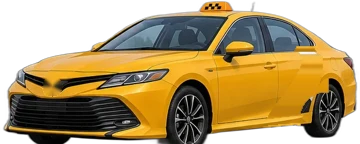
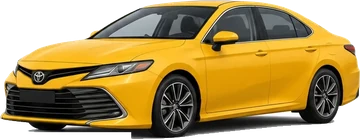
Новые рисунки машин в гараже, Kia K5 вместо Optima, окно подтверждения выбора машины
Claude-Session: https://claude.ai/code/session_01Vr2nsw1FRChDSUowvib2pM

diff --git a/index.html b/index.html
@@ -298,7 +298,8 @@ body{font-family:Inter,-apple-system,"Segoe UI",Roboto,sans-serif;-webkit-font-s
 
 #garage .gcard{padding-top:50px}#garage .mhead{top:12px;right:12px}
 #garage .gnote{margin:0 2px 8px}#garage .clsrow{margin:0}
-.ginfo em{margin-top:1px}.gcar{padding:3px 10px 3px 6px}.gcar .carimg{width:96px}.gtar{margin:8px 2px 0}
+.ginfo em{margin-top:1px}
+.askicon.askcar{width:auto;height:auto;border-radius:0;background:none;margin:-4px auto 10px}.askcar .carimg{width:200px;margin:0 auto}.gcar{padding:3px 10px 3px 6px}.gcar .carimg{width:96px}.gtar{margin:8px 2px 0}
 </style></head>
 <body>
 <div id="app">
@@ -409,7 +410,7 @@ const CARS = [   // img - рисунок машины в папке cars/
   { id: "polo",    t: "comfort", name: "Volkswagen Polo", rent: 2450, fuel: 0.066 },
   { id: "octavia", t: "comfort", name: "Skoda Octavia", rent: 2600, fuel: 0.069 },
   { id: "tiggo4",  t: "cplus",   name: "Chery Tiggo 4", rent: 3500, fuel: 0.072, isNew: true },
-  { id: "optima",  t: "cplus",   name: "Kia Optima",    rent: 3600, fuel: 0.077 },
+  { id: "optima",  t: "cplus",   name: "Kia K5",        rent: 3600, fuel: 0.077 },
   { id: "camry",   t: "cplus",   name: "Toyota Camry",  rent: 3700, fuel: 0.078 }
 ];
 // Магазин: покупки для машины, которые остаются навсегда и помогают зарабатывать
@@ -1165,8 +1166,12 @@ $("garage").addEventListener("click", e => {
     if (TORDER.some(x => clsAllowed(x) && next[x])) { clsOn = next; orders = []; previewId = null; saveGame(); renderPanel(); }
     return showGarage();
   }
-  const b = e.target.closest("[data-car]"); if (!b || b.disabled) return;
-  carId = b.dataset.car; carChosen = true; ensureCls(); saveGame(); showGarage(); updateTop();
+  const b = e.target.closest("[data-car]"); if (!b || b.disabled || b.dataset.car === carId) return;
+  const c = CARS.find(x => x.id === b.dataset.car);
+  askConfirm("Выбрать " + c.name + "?", "Списание " + c.rent.toLocaleString("ru-RU") + " ₽ за смену", "Выбрать", () => {
+    carId = c.id; carChosen = true; ensureCls(); saveGame(); showGarage(); updateTop();
+  });
+  $("askicon").className = "askicon askcar"; $("askicon").innerHTML = carImg(c, 200);   // вместо значка - рисунок машины
 });
 function showPause() {   // окно «Пауза»: перерыв, обед, заправка
   const left = MAX_BREAKS - breaks, idle = state === "idle";
@@ -1267,7 +1272,7 @@ menuEl.addEventListener("click", e => { if (e.target.closest("[data-close]")) me
 resetBtn.addEventListener("click", () => askConfirm("Сбросить весь прогресс?", "Деньги, рейтинг, поездки и истории пассажиров начнутся заново. Это нельзя отменить.", "Сбросить", resetGame, "alert"));
 // Своё окно подтверждения: стандартное окно браузера (confirm) на некоторых страницах запрещено и молча отвечает «нет»
 function askConfirm(title, text, okText, onOk, icon) {
-  const el = $("ask"); $("askicon").innerHTML = ico(icon || "briefcase"); $("asktitle").textContent = title; $("asktext").textContent = text; $("askok").textContent = okText;
+  const el = $("ask"); $("askicon").className = "askicon"; $("askicon").innerHTML = ico(icon || "briefcase"); $("asktitle").textContent = title; $("asktext").textContent = text; $("askok").textContent = okText;
   el.hidden = false; askCb = onOk; $("askok").style.background = "";
 }
 let askCb = null;
